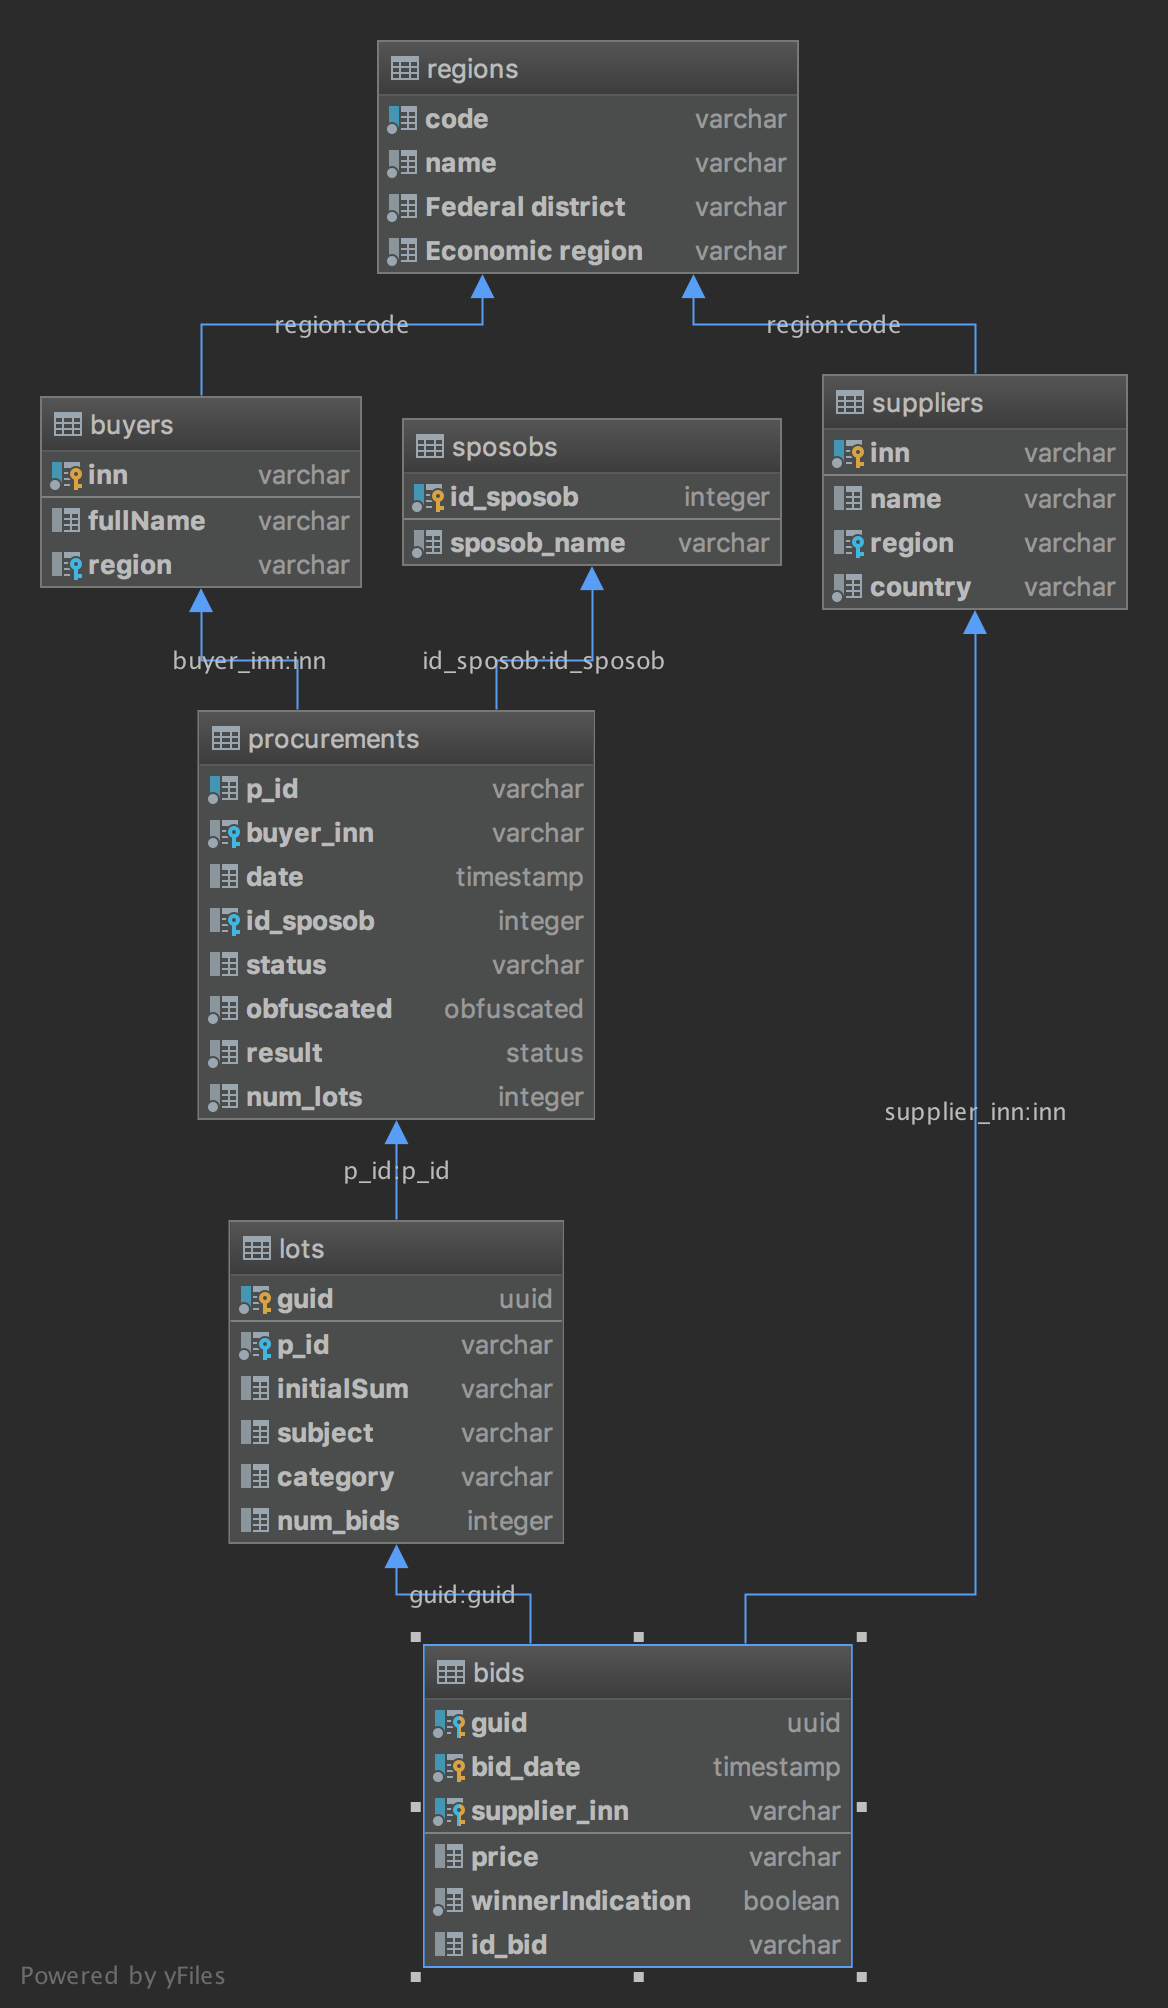
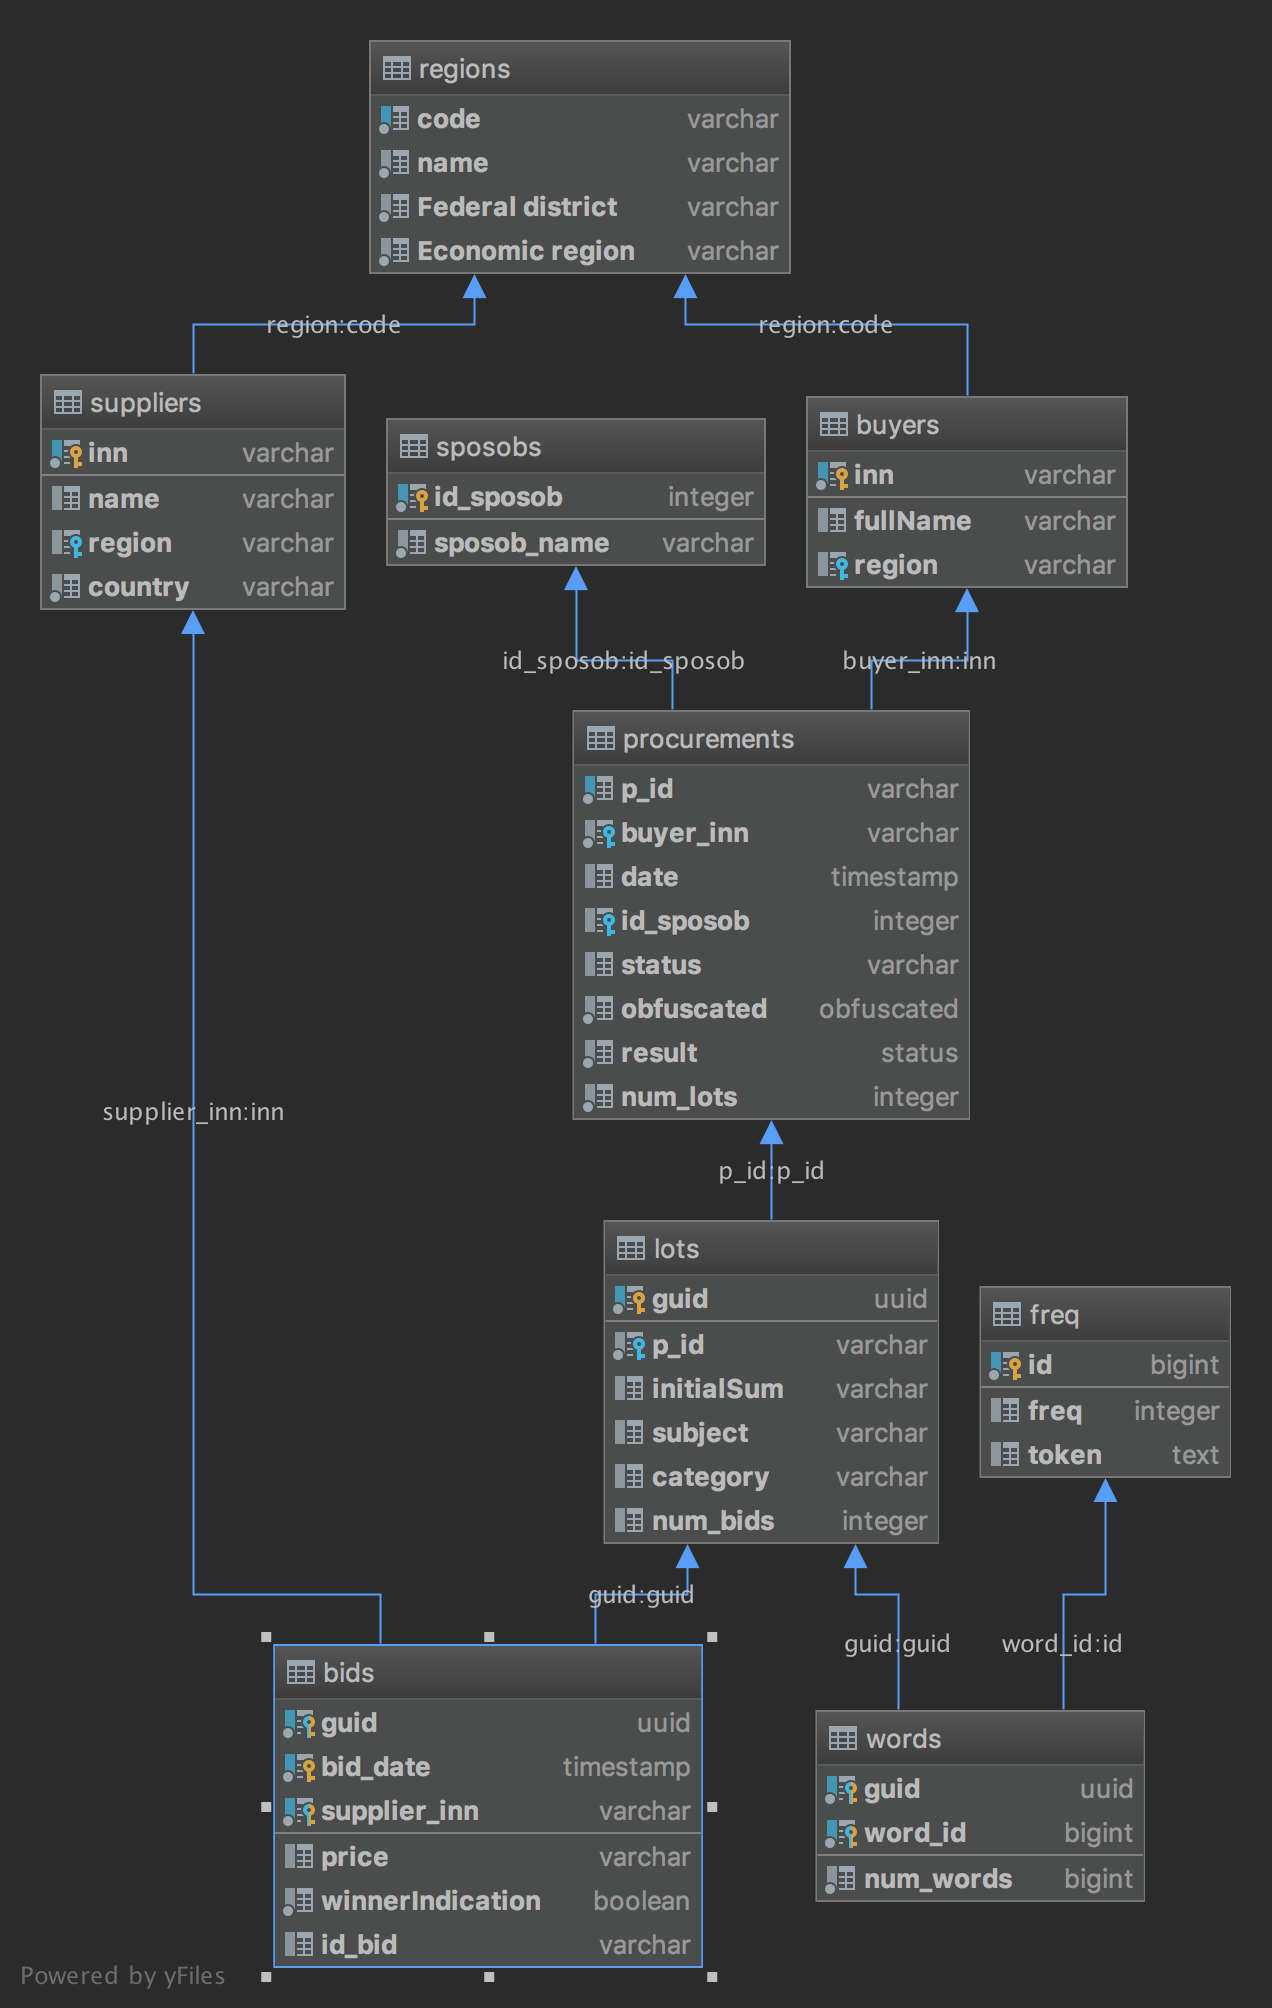
wordcloud

diff --git a/src/zakupkiClient/parser.py b/src/zakupkiClient/parser.py
@@ -5,36 +5,37 @@ import re
 from bs4 import BeautifulSoup
 
 from zakupkiClient.parserinterface import ParserInterface
-from zakupkiClient.util import _check_directory_create
+from zakupkiClient.util import _check_directory_create, create_word_cloud
 from zakupkiClient.webutils import parse_search_page, load_search_page, contain_purchase_data
 
 
 class Parser(ParserInterface):
-    def __init__(self, stub):
+    def __init__(self, stub, logger=None):
         self.__stub = stub
+        self.logger = logger or logging.getLogger(__name__)
 
     def allRecords(self):
         page = load_search_page(stub=self.get_stub(), p=1)
         soup = BeautifulSoup(page, features="lxml")
         if soup.find("p", {"class": "noRecords"}):
-            logging.ERROR("No ans")
+            self.logger.ERROR("No ans")
             return 0
         a = soup.find("p", {"class": "allRecords"}).text
         ans = int(re.sub(r'[^0-9]', "", a))
-        logging.info(f'allRecords = {ans}')
+        self.logger.info(f'allRecords = {ans}')
         return ans
 
     def search_save(self, page_limit, page_offset=1):
         page = page_offset
         path = self.get_stub().get_search_folder_path()
         while page <= page_limit:
-            logging.info('Loading page #%d' % (page))
+            self.logger.info('Loading page #%d' % (page))
             _check_directory_create(path)
             filepath = path + self.get_stub().get_page_filename()
             data = load_search_page(stub=self.get_stub(), p=page)
             if contain_purchase_data(data):
                 with open(filepath % page, 'w', encoding="UTF-8") as output_file:
-                    logging.info('Saving page #%d' % page)
+                    self.logger.info('Saving page #%d' % page)
                     output_file.write(data)
                     page += 1
             else:
@@ -43,17 +44,20 @@ class Parser(ParserInterface):
     def parse_save_search_entries(self, page_limit, page_offset=1):
         page_n = page_offset
         filepath = self.get_stub().get_search_folder_path() + self.get_stub().get_page_filename()
-        logging.info("Openning dir " + filepath)
+        self.logger.info("Openning dir " + filepath)
         while page_n <= page_limit:
             filename = filepath % page_n
             if os.path.isfile(filename):
                 parse_search_page(stub=self.get_stub(), filepath=filename)
                 page_n += 1
             else:
-                logging.ERROR("No file " + filename)
+                self.logger.ERROR("No file " + filename)
                 break
 
-        logging.info('parse_save_search_entries done')
+        self.logger.info('parse_save_search_entries done')
+
+    def create_word_freq(self):
+        create_word_cloud('/Users/macbook/Devel/zakupki/lots3.csv', '/Users/macbook/Devel/zakupki/freq.csv')
 
     def get_stub(self):
         return self.__stub

diff --git a/src/zakupkiClient/dbclient.py b/src/zakupkiClient/dbclient.py
@@ -4,7 +4,7 @@ import sqlalchemy as db
 
 
 class DbApi:
-    def __init__(self):
+    def __init__(self,logger=None):
         self.__engine = db.create_engine('postgresql+psycopg2://postgres@localhost/zakupki')
 
         self.__db_connection = self.__engine.connect()
@@ -14,21 +14,25 @@ class DbApi:
                      'buyers': db.Table('buyers', metadata, autoload=True, autoload_with=self.__engine),
                      'bids': db.Table('bids', metadata, autoload=True, autoload_with=self.__engine),
                      'lots': db.Table('lots', metadata, autoload=True, autoload_with=self.__engine),
-                     'suppliers': db.Table('suppliers', metadata, autoload=True, autoload_with=self.__engine)}
+                     'suppliers': db.Table('suppliers', metadata, autoload=True, autoload_with=self.__engine),
+                     'words': db.Table('words', metadata, autoload=True, autoload_with=self.__engine),
+                     'freq': db.Table('freq', metadata, autoload=True, autoload_with=self.__engine)
+                     }
+        self.logger = logger or logging.getLogger(__name__)
 
     def setup(self, db_name, value):
         try:
             query = db.insert(self.__db[db_name]).values(value)
             ResultProxy = self.__db_connection.execute(query)
         except Exception as e:
-            logging.warning(f'{db_name}{e}')
+            self.logger.warning(f'{db_name}{e}')
 
     def get(self, db_name):
         try:
             query = db.select([self.__db[db_name]])
             return self.__db_connection.execute(query)
         except Exception as e:
-            logging.warning(f'{db_name}{e}')
+            self.logger.warning(f'{db_name}{e}')
 
     def push(self, values):
         # print(values)
@@ -76,13 +80,20 @@ class DbApi:
                 self.setup('bids', bid)
                 print(bid)
 
-    def update(self, db_name, values, id):
+    def update(self, table_name, values, id):
         try:
             statement = 'UPDATE lots set category= \'%s\' where lots.guid = \'%s\''
             return self.__db_connection.execute(statement % (values, id))
         except Exception as e:
-            logging.warning(f'{db_name}{e}')
+            self.logger.warning(f'{table_name}{e}')
 
     def update_lots(self, purchase):
         for ll in purchase['lots']:
             self.update('lots', ll['category'], ll['guid'])
+
+    def dump_table(self, table_name, out_csv):
+        try:
+            statement = 'COPY %s TO \'%s\'DELIMITER \',\' CSV HEADER;'
+            return self.__db_connection.execute(statement % (table_name, out_csv))
+        except Exception as e:
+            self.logger.warning(f'{table_name}{e}')

diff --git a/src/zakupkiClient/util.py b/src/zakupkiClient/util.py
@@ -2,9 +2,11 @@ import os
 import logging
 import logging.config
 from pathlib import Path
+import pandas as pd
+from sklearn.feature_extraction.text import CountVectorizer
 
 ############ IO
-import sys
+from zakupkiClient.dbclient import DbApi
 
 
 def read_file(filepath):
@@ -34,9 +36,44 @@ def set_proxies():
 
 
 def set_logger():
-    logging.config.fileConfig(Path.joinpath(get_project_root(), "logging_config.ini"))
+    logging.config.fileConfig(Path.joinpath(get_project_root(), "logging_config.ini"),disable_existing_loggers=False)
 
 
 def get_project_root() -> Path:
     """Returns project root folder."""
     return Path(__file__).parent.parent.parent
+
+
+def create_word_cloud(lots_csv, freq_csv):
+    """
+    creates freq csv
+    :param freq_csv:
+    :param lots_csv:
+    :param out_csv:
+    """
+    DbApi().dump_table('lots', lots_csv)
+    df = pd.read_csv(lots_csv, header=None)
+    vectorizer = CountVectorizer(ngram_range=(1, 3), min_df=0.03)
+    cv_fit = vectorizer.fit_transform(df[3]).toarray()
+    s = set(zip(cv_fit.sum(axis=0), vectorizer.get_feature_names()))
+    b = pd.DataFrame(s, columns=['freq', 'token'])
+    b.index.name = 'id'
+    for i, x in b.iterrows():
+        d = x.to_dict()
+        d['id'] = i
+        DbApi().setup('freq', d)
+    b.to_csv(freq_csv)
+
+
+def create_word_table(lots_csv, freq_csv):
+    freqs = pd.read_csv(freq_csv)
+    df = pd.read_csv(lots_csv)
+    for i, row in freqs.iterrows():
+        for ix, r in df.iterrows():
+            if row['token'] in r[3]:
+                DbApi().setup('words',{'word_id': i, 'guid': r[0], 'num_words': r[3].count(row['token'])})
+
+
+def create_words_database(lots_csv, freq_csv):
+    create_word_cloud(lots_csv, freq_csv)
+    create_word_table(lots_csv, freq_csv)

diff --git a/src/zakupkiClient/webutils.py b/src/zakupkiClient/webutils.py
@@ -1,14 +1,16 @@
 from bs4 import BeautifulSoup
-
 from .textutils import *
 from .util import *
 from .dbclient import DbApi
+import logging
+
+logger = logging.getLogger(__name__)
 
 
 def check_website_up(stub):
     p_id = stub.get_p_id_test()
     url = stub.get_purchase_tab(p_id=p_id)
-    logging.info("loading  " + url)
+    logger.info("loading  " + url)
     page = load_page(stub=stub, p_link=url)
     soup = BeautifulSoup(page, features="lxml")
     infopage = soup.find('div', {'class': "contentTabBoxBlock"})

diff --git a/src/zakupkiClient/__init__.py b/src/zakupkiClient/__init__.py
@@ -7,7 +7,8 @@ from .textutils import (
     clear_text
 )
 from .util import (
-    read_file
+    read_file,
+    create_words_database
 )
 from .webutils import (
     load_page,
